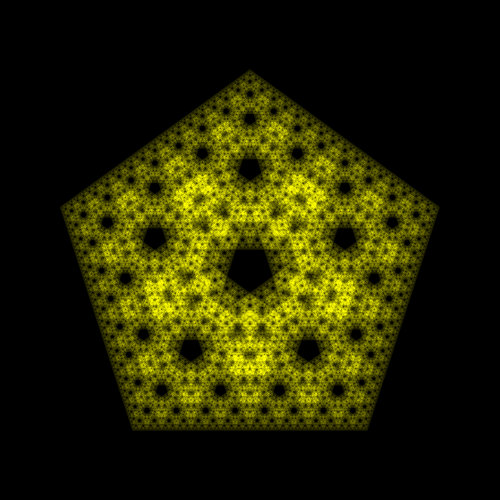
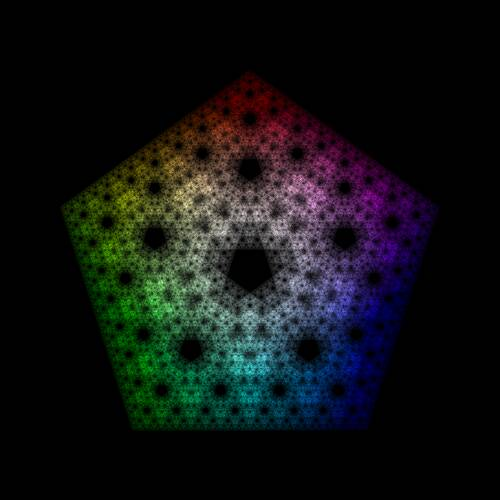
Updated chaos game coloring

diff --git a/writing/caligo/chapters/10.html b/writing/caligo/chapters/10.html
@@ -72,7 +72,7 @@
 
 		<div data-aos="fade-up">
 			<p class="body-text">
-				Was she ever. Bruce was taking the three of them ice skating at the rink just a few blocks away. Amelia was bringing three of her best friends, neighbors that she&#x2019;d grown up with like grape vines. Nate was taking along some of his too, and though Lucas didn&#x2019;t have many friends to speak of, he was as excited as the rest.
+				Was she ever. Bruce was taking the three of them ice skating at the rink just a few blocks away. Amelia was bringing three of her best friends, neighbors that she&#x2019;d grown up with like grapevines. Nate was taking along some of his too, and though Lucas didn&#x2019;t have many friends to speak of, he was as excited as the rest.
 			</p>
 		</div>
 
@@ -618,7 +618,7 @@
 
 		<div data-aos="fade-up">
 			<p class="body-text">
-				Except it wasn&#x2019;t quite that easy, because from the corner of her eye, Amelia saw the other man raising his pistol. She ducked reflexively, her heart hammering, and purple fire flew over her head as she all but lost her grip of the first man.
+				Except it wasn&#x2019;t quite that easy, because from the corner of her eye, Amelia saw the other man raising his pistol. She ducked reflexively, her heart hammering, and purple fire flew over her head as she all but lost her grip on the first man.
 			</p>
 		</div>
 
@@ -792,7 +792,7 @@
 
 		<div data-aos="fade-up">
 			<p class="body-text">
-				One of the balaclavaed women had grabbed an officer from behind, keeping her in a choke-hold before the the other woman delivered a punch to her temple. Ben&#x2019;s stomach sank &mdash; the rebels were winning.
+				One of the balaclavaed women had grabbed an officer from behind, keeping her in a choke-hold before the other woman delivered a punch to her temple. Ben&#x2019;s stomach sank &mdash; the rebels were winning.
 			</p>
 		</div>
 
@@ -1192,7 +1192,7 @@
 
 		<div data-aos="fade-up">
 			<p class="body-text">
-				Ben had already rid himself of everything he&#x2019;d eaten in the past day and a half when the door opened, and one of the housekeepers entered. He looked similarly green in the face, but he brought with him a handful of bottles and a strange looking device that Ben quickly learned was a massive diffuser. He watched, still nauseated to the point of delirium, as a bottle was loaded in and the smell of oranges filled the room. It wasn&#x2019;t enough to drown out the putrid stench that seemed to coat everything, but rotting flesh with oranges was decidedly better than rotting flesh, and he didn&#x2019;t complain.
+				Ben had already rid himself of everything he&#x2019;d eaten in the past day and a half when the door opened, and one of the housekeepers entered. He looked similarly green in the face, but he brought with him a handful of bottles and a strange-looking device that Ben quickly learned was a massive diffuser. He watched, still nauseated to the point of delirium, as a bottle was loaded in and the smell of oranges filled the room. It wasn&#x2019;t enough to drown out the putrid stench that seemed to coat everything, but rotting flesh with oranges was decidedly better than rotting flesh, and he didn&#x2019;t complain.
 			</p>
 		</div>
 
@@ -1262,7 +1262,7 @@
 
 		<div data-aos="fade-up">
 			<p class="body-text">
-				When she closed the trapdoor above her, the blackness surrounded her completely, filling her eyes like ink. Amelia took step after tentative step, descending one foot at a time. The stairs twisted and turned repeatedly, and in total, she counted five floors that she went down. The farther she went, she more rocks littered the steps, and she nearly tripped several times. Finally, after nearly a quarter hour of careful movement, Amelia realized that she could see, if only just. A dim yellow light filled the space, and she saw with a start that the walls to either side were carved out of rock. Up ahead, a cave-in seemed to block the way down, but the light was coming from a small hole in the bottom, barely large enough to squeeze through. So squeeze she did, emerging on the other side to find... a door. It was made of steel, not unlike the far larger one that led out of the dome, and above it was a tiny camera. That surprised her more than the door &mdash; cameras were expensive.
+				When she closed the trapdoor above her, the blackness surrounded her completely, filling her eyes like ink. Amelia took step after tentative step, descending one foot at a time. The stairs twisted and turned repeatedly, and in total, she counted five floors that she went down. The farther she went, she more rocks littered the steps, and she nearly tripped several times. Finally, after nearly a quarter-hour of careful movement, Amelia realized that she could see, if only just. A dim yellow light filled the space, and she saw with a start that the walls to either side were carved out of rock. Up ahead, a cave-in seemed to block the way down, but the light was coming from a small hole in the bottom, barely large enough to squeeze through. So squeeze she did, emerging on the other side to find... a door. It was made of steel, not unlike the far larger one that led out of the dome, and above it was a tiny camera. That surprised her more than the door &mdash; cameras were expensive.
 			</p>
 		</div>
 

diff --git a/writing/caligo/chapters/19.html b/writing/caligo/chapters/19.html
@@ -190,7 +190,7 @@
 
 		<div data-aos="fade-up">
 			<p class="body-text">
-				Once she was in, Amelia walked down the wide, low-ceilinged, downward-sloping hallway that ran a quarter-mile down to the the stage where Vogel had given her speech. The floor was the same lush grass that made her want to take off her shoes, the trees the same incubated diversity, ready to be spread to the hundreds of parks and open spaces that Vogel promised. The same starry ceiling lights, but fewer of them lit.
+				Once she was in, Amelia walked down the wide, low-ceilinged, downward-sloping hallway that ran a quarter-mile down to the stage where Vogel had given her speech. The floor was the same lush grass that made her want to take off her shoes, the trees the same incubated diversity, ready to be spread to the hundreds of parks and open spaces that Vogel promised. The same starry ceiling lights, but fewer of them lit.
 			</p>
 		</div>
 
@@ -260,7 +260,7 @@
 
 		<div data-aos="fade-up">
 			<p class="body-text">
-				She looked them over and nodded. &#x201C;Alright. You get in there, you give them your name and ID, and they ask how long you think you&#x2019;ll be gone. That&#x2019;s it. Don&#x2019;t let them interrogate you. Don&#x2019;t act skittish. If you have nothing to hide, you won&#x2019;t let them walk all over you. Got it?&#x201D; Three nods prompted her to continue. &#x201C;Good. Fifteen minute increments. Now let&#x2019;s get out of here.&#x201D;
+				She looked them over and nodded. &#x201C;Alright. You get in there, you give them your name and ID, and they ask how long you think you&#x2019;ll be gone. That&#x2019;s it. Don&#x2019;t let them interrogate you. Don&#x2019;t act skittish. If you have nothing to hide, you won&#x2019;t let them walk all over you. Got it?&#x201D; Three nods prompted her to continue. &#x201C;Good. Fifteen-minute increments. Now let&#x2019;s get out of here.&#x201D;
 			</p>
 		</div>
 
@@ -484,7 +484,7 @@
 
 		<div data-aos="fade-up">
 			<p class="body-text">
-				Inside this gate was a slightly larger room &mdash; square instead of rectangular, and maybe ten feet to a side. There was a third door at the opposite end, and the whole room was ringed with a single low bench, like some kind of twisted sauna. With growing dread, Amelia knew it was time for all the clothes she&#x2019;d bought. She took a seat and unzipped her backpack, removing layer after layer. Over a t-shirt and jeans, she put on two wool sweaters, a mackinaw, a beanie, two pairs of synthetic wool pants, enormous snow boots that were a size-and-a-half too big but had been on clearance, and over it all, an honest-to-god parka. It had taken nearly all of what she had in the jug, but she really just hoped she&#x2019;d spent enough. Halfway through, she was already starting to sweat, and by the end, she wondered for a moment if it was a little overkill. But as the parka went on, that same piercing hiss sounded, and the air in the room began to move, rushing downward. Amelia knelt down to see vents below the benches, and as she stood back up &mdash; made much harder by the added bulk &mdash; she felt the air temperature begin to drop. And drop. And drop. And plummet. It showed no signs of stopping, plunging from to cold to sharp to painful to alarming to dangerous. Finally, after what had to be a minute but felt like ten, the hiss stopped, and the temperature with it.
+				Inside this gate was a slightly larger room &mdash; square instead of rectangular, and maybe ten feet to a side. There was a third door at the opposite end, and the whole room was ringed with a single low bench, like some kind of twisted sauna. With growing dread, Amelia knew it was time for all the clothes she&#x2019;d bought. She took a seat and unzipped her backpack, removing layer after layer. Over a t-shirt and jeans, she put on two wool sweaters, a mackinaw, a beanie, two pairs of synthetic wool pants, enormous snow boots that were a size-and-a-half too big but had been on clearance, and over it all, an honest-to-god parka. It had taken nearly all of what she had in the jug, but she really just hoped she&#x2019;d spent enough. Halfway through, she was already starting to sweat, and by the end, she wondered for a moment if it was a little overkill. But as the parka went on, that same piercing hiss sounded, and the air in the room began to move, rushing downward. Amelia knelt down to see vents below the benches, and as she stood back up &mdash; made much harder by the added bulk &mdash; she felt the air temperature begin to drop. And drop. And drop. And plummet. It showed no signs of stopping, plunging from cold to sharp to painful to alarming to dangerous. Finally, after what had to be a minute but felt like ten, the hiss stopped, and the temperature with it.
 			</p>
 		</div>
 

diff --git a/writing/caligo/chapters/3.html b/writing/caligo/chapters/3.html
@@ -136,7 +136,7 @@
 
 		<div data-aos="fade-up">
 			<p class="body-text">
-				She passed an thin old man in the middle of the alley, hobbling with a staff, but it was otherwise empty. She was almost to the end, where it opened onto a courtyard of some sort, when she heard enraged shouting from the other end. Amelia threw a glance back... and stopped. The baker was lying face-down on the cold alley floor, hurling insults. Keeping him there was the old man, kneeling on one of her follower&#x2019;s hands and bending the other down to his wrist. It had to be painful &mdash; the baker&#x2019;s face was red and he was squirming about in a desperate attempt to get free.
+				She passed a thin old man in the middle of the alley, hobbling with a staff, but it was otherwise empty. She was almost to the end, where it opened onto a courtyard of some sort, when she heard enraged shouting from the other end. Amelia threw a glance back... and stopped. The baker was lying face-down on the cold alley floor, hurling insults. Keeping him there was the old man, kneeling on one of her follower&#x2019;s hands and bending the other down to his wrist. It had to be painful &mdash; the baker&#x2019;s face was red and he was squirming about in a desperate attempt to get free.
 			</p>
 		</div>
 
@@ -200,7 +200,7 @@
 
 		<div data-aos="fade-up">
 			<p class="body-text">
-				The baker made his first quick movement in more than a minute, jumping backwards and shaking his head. He stumbled over his words and then his feet, fleeing from the alley.
+				The baker made his first quick movement in more than a minute, jumping backward and shaking his head. He stumbled over his words and then his feet, fleeing from the alley.
 			</p>
 		</div>
 
@@ -256,7 +256,7 @@
 
 		<div data-aos="fade-up">
 			<p class="body-text">
-				&#x201C;And here I thought being a hero was enough to keep you fed,&#x201D; Charlie muttered, still grinning. He led her through the alley, and they emerged in the small courtyard Amelia had glimpsed, gravel crunching beneath her feet. There was a dry fountain in the middle, and four simple benches surrounding it, set close together. All around, buildings reached for the dome, none of them fewer than five stories. The courtyard was barely forty feet across, and it felt smaller &mdash; Amelia couldn&#x2019;t see the skyscrapers in the city&#x2019;s center, and all the neon-like sounds without had dropped to a soft florescent flicker, almost as quiet as the inside of her apartment.
+				&#x201C;And here I thought being a hero was enough to keep you fed,&#x201D; Charlie muttered, still grinning. He led her through the alley, and they emerged in the small courtyard Amelia had glimpsed, gravel crunching beneath her feet. There was a dry fountain in the middle, and four simple benches surrounding it, set close together. All around, buildings reached for the dome, none of them fewer than five stories. The courtyard was barely forty feet across, and it felt smaller &mdash; Amelia couldn&#x2019;t see the skyscrapers in the city&#x2019;s center, and all the neon-like sounds without had dropped to a soft fluorescent flicker, almost as quiet as the inside of her apartment.
 			</p>
 		</div>
 
@@ -400,7 +400,7 @@
 
 		<div data-aos="fade-up">
 			<p class="body-text">
-				To her surprise, he seemed to actually consider the notion, scratching his white beard in thought. After an long moment, though, he shook his head. &#x201C;I don&#x2019;t think so. I&#x2019;ve got too much to do, and I can&#x2019;t afford to spend the time.&#x201D; His tone was free of sarcasm, and after a moment, he added, &#x201C;I&#x2019;m sorry. But a man&#x2019;s gotta eat.&#x201D;
+				To her surprise, he seemed to actually consider the notion, scratching his white beard in thought. After a long moment, though, he shook his head. &#x201C;I don&#x2019;t think so. I&#x2019;ve got too much to do, and I can&#x2019;t afford to spend the time.&#x201D; His tone was free of sarcasm, and after a moment, he added, &#x201C;I&#x2019;m sorry. But a man&#x2019;s gotta eat.&#x201D;
 			</p>
 		</div>
 

diff --git a/applets/the-chaos-game/scripts/the-chaos-game.min.js b/applets/the-chaos-game/scripts/the-chaos-game.min.js
@@ -1,1 +1,1 @@
-!function(){"use strict";let e=null,t=document.querySelector("#output-canvas").getContext("2d",{alpha:!1}),n=null,r=[];document.querySelector("#generate-button").addEventListener("click",o);let a=document.querySelectorAll("#grid-size-input, #num-vertices-input");for(let e=0;e<a.length;e++)a[e].addEventListener("keydown",function(e){13===e.keyCode&&o()});function o(){let a=parseInt(document.querySelector("#num-vertices-input").value||3);e=parseInt(document.querySelector("#grid-size-input").value||1e3),document.querySelector("#output-canvas").setAttribute("width",e),document.querySelector("#output-canvas").setAttribute("height",e),t.fillStyle="rgb(0, 0, 0)",t.fillRect(0,0,e,e);try{n.terminate()}catch(e){}n=DEBUG?new Worker("/applets/the-chaos-game/scripts/worker.js"):new Worker("/applets/the-chaos-game/scripts/worker.min.js"),temporary_web_workers.push(n),n.onmessage=function(n){r=n.data[0];let a=t.getImageData(0,0,e,e),o=a.data;for(let t=0;t<e;t++)for(let n=0;n<e;n++){let a=4*t*e+4*n;o[a]=r[t][n],o[a+1]=r[t][n],o[a+2]=0,o[a+3]=255}t.putImageData(a,0,0)},n.postMessage([a,e])}document.querySelector("#download-button").addEventListener("click",function(){let e=document.createElement("a");e.download="the-chaos-game.png",e.href=document.querySelector("#output-canvas").toDataURL(),e.click(),e.remove()}),"Chrome"!==browser_name&&"Opera"!==browser_name||function(){let e=document.querySelector("main").children;(e=e[e.length-1].children)[e.length-1].insertAdjacentHTML("afterend",'\n\t\t\t<div data-aos="fade-up" style="margin-top: 10vh">\n\t\t\t\t<p class="body-text">\n\t\t\t\t\tYour browser treats canvases in a way that may make this applet stutter excessively. If this happens, try temporarily turning off hardware acceleration in the browser&#x2019;s settings.\n\t\t\t\t</p>\n\t\t\t</div>\n\t\t'),aos_resize()}(),applet_canvases_to_resize=[document.querySelector("#output-canvas")],applet_canvas_true_fullscreen=!1,set_up_canvas_resizer()}();
+!function(){"use strict";let e=null,t=document.querySelector("#output-canvas").getContext("2d",{alpha:!1}),n=null,r=[];document.querySelector("#generate-button").addEventListener("click",o);let a=document.querySelectorAll("#grid-size-input, #num-vertices-input");for(let e=0;e<a.length;e++)a[e].addEventListener("keydown",function(e){13===e.keyCode&&o()});function o(){let a=parseInt(document.querySelector("#num-vertices-input").value||3);e=parseInt(document.querySelector("#grid-size-input").value||1e3),document.querySelector("#output-canvas").setAttribute("width",e),document.querySelector("#output-canvas").setAttribute("height",e),t.fillStyle="rgb(0, 0, 0)",t.fillRect(0,0,e,e);try{n.terminate()}catch(e){}n=DEBUG?new Worker("/applets/the-chaos-game/scripts/worker.js"):new Worker("/applets/the-chaos-game/scripts/worker.min.js"),temporary_web_workers.push(n),n.onmessage=function(n){r=n.data[0];let a=t.getImageData(0,0,e,e),o=a.data;for(let t=0;t<e;t++)for(let n=0;n<e;n++){let a=4*t*e+4*n;o[a]=r[t][n][0],o[a+1]=r[t][n][1],o[a+2]=r[t][n][2],o[a+3]=255}t.putImageData(a,0,0)},n.postMessage([a,e])}document.querySelector("#download-button").addEventListener("click",function(){let e=document.createElement("a");e.download="the-chaos-game.png",e.href=document.querySelector("#output-canvas").toDataURL(),e.click(),e.remove()}),"Chrome"!==browser_name&&"Opera"!==browser_name||function(){let e=document.querySelector("main").children;(e=e[e.length-1].children)[e.length-1].insertAdjacentHTML("afterend",'\n\t\t\t<div data-aos="fade-up" style="margin-top: 10vh">\n\t\t\t\t<p class="body-text">\n\t\t\t\t\tYour browser treats canvases in a way that may make this applet stutter excessively. If this happens, try temporarily turning off hardware acceleration in the browser&#x2019;s settings.\n\t\t\t\t</p>\n\t\t\t</div>\n\t\t'),aos_resize()}(),applet_canvases_to_resize=[document.querySelector("#output-canvas")],applet_canvas_true_fullscreen=!1,set_up_canvas_resizer()}();

diff --git a/writing/caligo/chapters/2.html b/writing/caligo/chapters/2.html
@@ -64,7 +64,7 @@
 
 		<div data-aos="fade-up">
 			<p class="body-text">
-				He wasn&#x2019;t really. It took him half an hour to make himself presentable, which required slicked hair, clean teeth, a dress shirt, dress pants, dress shoes, and everything short of a dress itself. When he gave himself one last look, he was awake enough to notice the double chin, one of the those things that he couldn&#x2019;t make presentable. A face like a blown-up mouse balloon, a book glued to it more often than not, and an awkwardness that followed him like some kind of stench. It was a list without many redeeming qualities he could see.
+				He wasn&#x2019;t really. It took him half an hour to make himself presentable, which required slicked hair, clean teeth, a dress shirt, dress pants, dress shoes, and everything short of a dress itself. When he gave himself one last look, he was awake enough to notice the double chin, one of those things that he couldn&#x2019;t make presentable. A face like a blown-up mouse balloon, a book glued to it more often than not, and an awkwardness that followed him like some kind of stench. It was a list without many redeeming qualities he could see.
 			</p>
 		</div>
 
@@ -72,7 +72,7 @@
 
 		<div data-aos="fade-up">
 			<p class="body-text">
-				Ben grabbed a pen and notebook from a desk and stepped out into the florescent hallway. The carpet changed abruptly from plush white to dull red, and the walls could have had a different style too, for all he could see of them &mdash; most of the space was taken up by art of all kinds. Famous works, scavenged from out beyond the dome, and lesser ones, too &mdash; including a portrait of Ben from when he was eight, nestled in among grand landscapes. If it hadn&#x2019;t been so easy to miss, it would probably already be gone.
+				Ben grabbed a pen and notebook from a desk and stepped out into the fluorescent hallway. The carpet changed abruptly from plush white to dull red, and the walls could have had a different style too, for all he could see of them &mdash; most of the space was taken up by art of all kinds. Famous works, scavenged from out beyond the dome, and lesser ones, too &mdash; including a portrait of Ben from when he was eight, nestled in among grand landscapes. If it hadn&#x2019;t been so easy to miss, it would probably already be gone.
 			</p>
 		</div>
 
@@ -216,7 +216,7 @@
 
 		<div data-aos="fade-up">
 			<p class="body-text">
-				Ben still remembered clearly the day his father had found out. His cold rage only showed itself though the small cracks in his elegance, but even then, Ben had known how to spot it. He&#x2019;d spent that day in the kitchens, ordering a series of pastries and hoping Richard wouldn&#x2019;t find him.
+				Ben still remembered clearly the day his father had found out. His cold rage only showed itself through the small cracks in his elegance, but even then, Ben had known how to spot it. He&#x2019;d spent that day in the kitchens, ordering a series of pastries and hoping Richard wouldn&#x2019;t find him.
 			</p>
 		</div>
 
@@ -518,7 +518,7 @@
 
 		<div data-aos="fade-up">
 			<p class="body-text">
-				It was almost as good as being down there on the ground. He watched someone wind their way through the crowd, passing by a massive grocery, a hole-in-the wall bookstore, and a slightly larger place that seemed to sell weapons.
+				It was almost as good as being down there on the ground. He watched someone wind their way through the crowd, passing by a massive grocery, a hole-in-the-wall bookstore, and a slightly larger place that seemed to sell weapons.
 			</p>
 		</div>
 

diff --git a/writing/caligo/chapters/22.html b/writing/caligo/chapters/22.html
@@ -72,7 +72,7 @@
 
 		<div data-aos="fade-up">
 			<p class="body-text">
-				Melissa gestured to the aisle that lead toward the stairs. &#x201C;You three clear those out, and I&#x2019;ll hold these off. On my call.&#x201D;
+				Melissa gestured to the aisle that led toward the stairs. &#x201C;You three clear those out, and I&#x2019;ll hold these off. On my call.&#x201D;
 			</p>
 		</div>
 
@@ -576,7 +576,7 @@
 
 		<div data-aos="fade-up">
 			<p class="body-text">
-				They two of them began rousing their comrades, but Amelia could feel the heat rushing up, now. Melissa staggered a little, the floor weakening under her, and got their attention. &#x201C;I need you all to listen carefully. Step where I step. Don&#x2019;t put all your weight on anything. Use common sense. Got it?&#x201D; She set off carefully but quickly across the floor, past the group of waking outliers, some coming around quickly, others lethargically or not at all.
+				The two of them began rousing their comrades, but Amelia could feel the heat rushing up, now. Melissa staggered a little, the floor weakening under her, and got their attention. &#x201C;I need you all to listen carefully. Step where I step. Don&#x2019;t put all your weight on anything. Use common sense. Got it?&#x201D; She set off carefully but quickly across the floor, past the group of waking outliers, some coming around quickly, others lethargically or not at all.
 			</p>
 		</div>
 
@@ -1070,7 +1070,7 @@
 
 		<div data-aos="fade-up">
 			<p class="body-text">
-				Neither one said anything for a while, watching Margaret ahead of them. She groaned occasionally, slipping in and out of consciousness, and the other outliers kept glancing back at her nervously. Amelia realized after a little while that were probably less worried about her leg than what the noise might attract. The more Amelia looked around, down the empty, plague-black streets, the more she began to think they were right to worry.
+				Neither one said anything for a while, watching Margaret ahead of them. She groaned occasionally, slipping in and out of consciousness, and the other outliers kept glancing back at her nervously. Amelia realized after a little while that they were probably less worried about her leg than what the noise might attract. The more Amelia looked around, down the empty, plague-black streets, the more she began to think they were right to worry.
 			</p>
 		</div>
 
@@ -1102,7 +1102,7 @@
 
 		<div data-aos="fade-up">
 			<p class="body-text">
-				Melissa looked toward her, maybe about to say something, but then just she shook her head. Amelia watched her for a few moments, waiting for answer, until she eventually gave up &mdash; she&#x2019;d annoyed Melissa enough for one day, even if this didn&#x2019;t sit very well with her.
+				Melissa looked toward her, maybe about to say something, but then just she shook her head. Amelia watched her for a few moments, waiting for an answer, until she eventually gave up &mdash; she&#x2019;d annoyed Melissa enough for one day, even if this didn&#x2019;t sit very well with her.
 			</p>
 		</div>
 
@@ -1370,7 +1370,7 @@
 
 		<div data-aos="fade-up">
 			<p class="body-text">
-				Kate started a retort, but Melissa cut her off. &#x201C;We&#x2019;ll be on our way in a moment,&#x201D; she said, only a hint of a tiredness in her voice.
+				Kate started a retort, but Melissa cut her off. &#x201C;We&#x2019;ll be on our way in a moment,&#x201D; she said, only a hint of tiredness in her voice.
 			</p>
 		</div>
 

diff --git a/applets/the-chaos-game/scripts/worker.min.js b/applets/the-chaos-game/scripts/worker.min.js
@@ -1,1 +1,1 @@
-"use strict";onmessage=async function(e){num_vertices=e.data[0],grid_size=e.data[1],await draw_chaos_game()};let num_vertices=null,grid_size=null,image=[],vertices=[],center_row=null,center_col=null,current_row=null,current_col=null,num_pixels_at_max=0;function draw_chaos_game(){return new Promise(function(e,r){image=[];for(let e=0;e<grid_size;e++){image.push([]);for(let r=0;r<grid_size;r++)image[e].push(0)}let t=2*Math.floor(num_vertices/2)*Math.PI/num_vertices,i=grid_size/2-grid_size/2.5,c=grid_size/2-grid_size/2.5*Math.cos(t),_=i+(grid_size-c);center_row=Math.floor(_/2+grid_size/2.5),center_col=Math.floor(grid_size/2),current_row=center_row,current_col=center_col,vertices=[];for(let e=0;e<num_vertices;e++){let r=e/num_vertices*2*Math.PI,t=Math.floor(-Math.cos(r)*grid_size/2.5+center_row),i=Math.floor(Math.sin(r)*grid_size/2.5+center_col);vertices.push([t,i])}let o=0;for(;;){o%(100*grid_size)==0&&postMessage([image]);let e=Math.floor(Math.random()*num_vertices);if(current_row=Math.floor((current_row+vertices[e][0])/2),current_col=Math.floor((current_col+vertices[e][1])/2),image[current_row][current_col]++,255===image[current_row][current_col]){if(++num_pixels_at_max/(grid_size*grid_size)>.004)break}else image[current_row][current_col]>255&&(image[current_row][current_col]=255);o++}postMessage([image]),e()})}
+"use strict";onmessage=async function(e){num_vertices=e.data[0],grid_size=e.data[1],await draw_chaos_game()};let num_vertices=null,grid_size=null,image=[],vertices=[],center_row=null,center_col=null,current_row=null,current_col=null,num_pixels_at_max=0;function draw_chaos_game(){return new Promise(function(e,r){image=[];for(let e=0;e<grid_size;e++){image.push([]);for(let r=0;r<grid_size;r++)image[e].push([0,0,0])}let t=2*Math.floor(num_vertices/2)*Math.PI/num_vertices,i=grid_size/2-grid_size/2.5,_=grid_size/2-grid_size/2.5*Math.cos(t),c=i+(grid_size-_);center_row=Math.floor(c/2+grid_size/2.5),center_col=Math.floor(grid_size/2),current_row=center_row,current_col=center_col,vertices=[];for(let e=0;e<num_vertices;e++){let r=e/num_vertices*2*Math.PI,t=Math.floor(-Math.cos(r)*grid_size/2.5+center_row),i=Math.floor(Math.sin(r)*grid_size/2.5+center_col);vertices.push([t,i])}let o=0;for(;;){o%(100*grid_size)==0&&postMessage([image]);let r=Math.floor(Math.random()*num_vertices);current_row=Math.floor((current_row+vertices[r][0])/2),current_col=Math.floor((current_col+vertices[r][1])/2);let t=HSVtoRGB((Math.atan2(current_col-grid_size/2,current_row-grid_size/2)+Math.PI)/(2*Math.PI),((current_row-grid_size/2)*(current_row-grid_size/2)+(current_col-grid_size/2)*(current_col-grid_size/2))/(grid_size*grid_size/13),1);t[0]/=255,t[1]/=255,t[2]/=255;for(let r=0;r<3;r++)if(image[current_row][current_col][r]+=8*t[r],image[current_row][current_col][r]>=255&&(num_pixels_at_max++,image[current_row][current_col][r]=255,num_pixels_at_max/(grid_size*grid_size)>.004))return postMessage([image]),void e();o++}postMessage([image]),e()})}function HSVtoRGB(e,r,t){let i,_,c,o,s,a,n,u;switch(a=t*(1-r),n=t*(1-(s=6*e-(o=Math.floor(6*e)))*r),u=t*(1-(1-s)*r),o%6){case 0:i=t,_=u,c=a;break;case 1:i=n,_=t,c=a;break;case 2:i=a,_=t,c=u;break;case 3:i=a,_=n,c=t;break;case 4:i=u,_=a,c=t;break;case 5:i=t,_=a,c=n}return[Math.round(255*i),Math.round(255*_),Math.round(255*c)]}

diff --git a/writing/caligo/chapters/7.html b/writing/caligo/chapters/7.html
@@ -264,7 +264,7 @@
 
 		<div data-aos="fade-up">
 			<p class="body-text">
-				The glass was almost gone, now, and the hole was big enough for Amelia to fit though. She gave the melted edge a wipe with a small cloth that immediately began to corrode before tossing it away and climbing through, balaclavaed head first.
+				The glass was almost gone, now, and the hole was big enough for Amelia to fit through. She gave the melted edge a wipe with a small cloth that immediately began to corrode before tossing it away and climbing through, balaclavaed head first.
 			</p>
 		</div>
 
@@ -360,7 +360,7 @@
 
 		<div data-aos="fade-up">
 			<p class="body-text">
-				Lucas had never been one for half measures. He handled delicate emotions the way a blacksmith handled white-hot metal &mdash; always at arm&#x2019;s length, always with trepidation. When he realized that his tiny government salary wouldn&#x2019;t be nearly enough to feed all three of them and pay the rent, he&#x2019;d taken out a loan from an individual named Kroffman and instructed Amelia to find a job. How a ten-year old was supposed to do that, exactly, was unclear, but Lucas had inherited a set of ethics from his father &mdash; an awkward and heavy heirloom &mdash; and from where he stood, there was no other option.
+				Lucas had never been one for half measures. He handled delicate emotions the way a blacksmith handled white-hot metal &mdash; always at arm&#x2019;s length, always with trepidation. When he realized that his tiny government salary wouldn&#x2019;t be nearly enough to feed all three of them and pay the rent, he&#x2019;d taken out a loan from an individual named Kroffman and instructed Amelia to find a job. How a ten-year-old was supposed to do that, exactly, was unclear, but Lucas had inherited a set of ethics from his father &mdash; an awkward and heavy heirloom &mdash; and from where he stood, there was no other option.
 			</p>
 		</div>
 
@@ -448,7 +448,7 @@
 
 		<div data-aos="fade-up">
 			<p class="body-text">
-				There was almost nothing in there. A hundred thousand, maybe less. Amelia stared, bewildered and on edge, and had no choice bu to leave. She took the cash and bolted through the open door.
+				There was almost nothing in there. A hundred thousand, maybe less. Amelia stared, bewildered and on edge, and had no choice but to leave. She took the cash and bolted through the open door.
 			</p>
 		</div>
 

diff --git a/applets/the-chaos-game/scripts/worker.js b/applets/the-chaos-game/scripts/worker.js
@@ -41,7 +41,7 @@ function draw_chaos_game()
 			
 			for (let j = 0; j < grid_size; j++)
 			{
-				image[i].push(0);
+				image[i].push([0, 0, 0]);
 			}
 		}
 		
@@ -93,21 +93,39 @@ function draw_chaos_game()
 			current_row = Math.floor((current_row + vertices[attractor_vertex][0]) / 2);
 			current_col = Math.floor((current_col + vertices[attractor_vertex][1]) / 2);
 			
-			image[current_row][current_col]++;
 			
-			if (image[current_row][current_col] === 255)
+			
+			let new_hue = (Math.atan2(current_col - grid_size / 2, current_row - grid_size / 2) + Math.PI) / (2 * Math.PI);
+			
+			let new_saturation = ((current_row - grid_size / 2) * (current_row - grid_size / 2) + (current_col - grid_size / 2) * (current_col - grid_size / 2)) / (grid_size * grid_size / 13);
+			
+			let current_color = HSVtoRGB(new_hue, new_saturation, 1);
+			
+			current_color[0] /= 255;
+			current_color[1] /= 255;
+			current_color[2] /= 255;
+			
+			
+			
+			for (let i = 0; i < 3; i++)
 			{
-				num_pixels_at_max++;
+				image[current_row][current_col][i] += 8 * current_color[i];
 				
-				if (num_pixels_at_max / (grid_size * grid_size) > .004)
+				if (image[current_row][current_col][i] >= 255)
 				{
-					break;
+					num_pixels_at_max++;
+					
+					image[current_row][current_col][i] = 255;
+					
+					if (num_pixels_at_max / (grid_size * grid_size) > .004)
+					{
+						postMessage([image]);
+						
+						resolve();
+						
+						return;
+					}
 				}
-			}
-			
-			else if (image[current_row][current_col] > 255)
-			{
-				image[current_row][current_col] = 255;
 			}
 			
 			
@@ -123,4 +141,29 @@ function draw_chaos_game()
 		
 		resolve();
 	});
+}
+
+
+
+function HSVtoRGB(h, s, v)
+{
+	let r, g, b, i, f, p, q, t;
+	
+	i = Math.floor(h * 6);
+	f = h * 6 - i;
+	p = v * (1 - s);
+	q = v * (1 - f * s);
+	t = v * (1 - (1 - f) * s);
+	
+	switch (i % 6)
+	{
+		case 0: r = v, g = t, b = p; break;
+		case 1: r = q, g = v, b = p; break;
+		case 2: r = p, g = v, b = t; break;
+		case 3: r = p, g = q, b = v; break;
+		case 4: r = t, g = p, b = v; break;
+		case 5: r = v, g = p, b = q; break;
+	}
+    
+	return [Math.round(r * 255), Math.round(g * 255), Math.round(b * 255)];
 }

diff --git a/writing/caligo/chapters/4.html b/writing/caligo/chapters/4.html
@@ -208,7 +208,7 @@
 
 		<div data-aos="fade-up">
 			<p class="body-text">
-				It was ten minutes before he remembered that he hadn&#x2019;t intended to just walk the streets &mdash; he had a wad of bills in his bag, about five hundred thousand in total. It didn&#x2019;t occur to him for another half an hour that someone might try to lift it off him, but he was lucky for that half hour, moving unscathed. By then, he was out of the heart of Los Angeles, and the crowds were thinning, if only slightly. He veered off to the side and ducked into a neon-streaked establishment, advertising burgers and fries at all-you-can-eat prices.
+				It was ten minutes before he remembered that he hadn&#x2019;t intended to just walk the streets &mdash; he had a wad of bills in his bag, about five hundred thousand in total. It didn&#x2019;t occur to him for another half an hour that someone might try to lift it off him, but he was lucky for that half-hour, moving unscathed. By then, he was out of the heart of Los Angeles, and the crowds were thinning, if only slightly. He veered off to the side and ducked into a neon-streaked establishment, advertising burgers and fries at all-you-can-eat prices.
 			</p>
 		</div>
 
@@ -372,7 +372,7 @@
 
 		<div data-aos="fade-up">
 			<p class="body-text">
-				The last five floors were private &mdash; mostly offices, conference rooms, and the occasional service room. The twenty-fourth contained just a few, his room one of them. He made his way down the carpeted corridor, his steps now perfectly silent, and hid the book and pointless bobbles in his wardrobe, beneath his clothes. He had fifteen minutes to spare, and he flopped on his bed, happy to to be out of the heat.
+				The last five floors were private &mdash; mostly offices, conference rooms, and the occasional service room. The twenty-fourth contained just a few, his room one of them. He made his way down the carpeted corridor, his steps now perfectly silent, and hid the book and pointless bobbles in his wardrobe, beneath his clothes. He had fifteen minutes to spare, and he flopped on his bed, happy to be out of the heat.
 			</p>
 		</div>
 

diff --git a/writing/caligo/chapters/20.html b/writing/caligo/chapters/20.html
@@ -64,7 +64,7 @@
 
 		<div data-aos="fade-up">
 			<p class="body-text">
-				He still didn&#x2019;t know if he was really in control, or if Heather had orchestrated him from the beginning. The idea of bring a pawn wasn&#x2019;t a particularly alarming one &mdash; he&#x2019;d grown up as pawn, waiting to cross the battlefield and become &mdash; well, a king was more fitting than a queen, wasn&#x2019;t it? The only real advantage a king had over a pawn was moving backwards.
+				He still didn&#x2019;t know if he was really in control, or if Heather had orchestrated him from the beginning. The idea of being a pawn wasn&#x2019;t a particularly alarming one &mdash; he&#x2019;d grown up as pawn, waiting to cross the battlefield and become &mdash; well, a king was more fitting than a queen, wasn&#x2019;t it? The only real advantage a king had over a pawn was moving backward.
 			</p>
 		</div>
 
@@ -584,7 +584,7 @@
 
 		<div data-aos="fade-up">
 			<p class="body-text">
-				&#x201C;Make haste,&#x201D; Heather breathed behind him. Ben didn&#x2019;t bother to reply, walking quickly down the isle. It ringed the entire floor like the farmland ringed the city, floor-to-ceiling glass windows casting beams of light on the dozens of desks. Every one was pushed up against the glass so that those working could see the yawning city below. Ben wasn&#x2019;t sure why they were there when the only people on the floors had their own offices, but he liked them nonetheless. They reminded him of what he thought a library should look like.
+				&#x201C;Make haste,&#x201D; Heather breathed behind him. Ben didn&#x2019;t bother to reply, walking quickly down the aisle. It ringed the entire floor like the farmland ringed the city, floor-to-ceiling glass windows casting beams of light on the dozens of desks. Every one was pushed up against the glass so that those working could see the yawning city below. Ben wasn&#x2019;t sure why they were there when the only people on the floors had their own offices, but he liked them nonetheless. They reminded him of what he thought a library should look like.
 			</p>
 		</div>
 

diff --git a/writing/caligo/chapters/12.html b/writing/caligo/chapters/12.html
@@ -118,7 +118,7 @@
 
 		<div data-aos="fade-up">
 			<p class="body-text">
-				Ben threw a small wrench into the pipeline, though, hoarding every day&#x2019;s paper for those two weeks. The most interesting detail he found in them was tiny, mentioned barely once and then never again: no one was in the building when it happened<em>. </em>It was a line a few paragraphs into the front page story the day after the explosion. The article had talked mostly about potential suspects and the government&#x2019;s response and the <em>smell</em>, and the lack of direct victims was ignored.
+				Ben threw a small wrench into the pipeline, though, hoarding every day&#x2019;s paper for those two weeks. The most interesting detail he found in them was tiny, mentioned barely once and then never again: no one was in the building when it happened<em>. </em>It was a line a few paragraphs into the front-page story the day after the explosion. The article had talked mostly about potential suspects and the government&#x2019;s response and the <em>smell</em>, and the lack of direct victims was ignored.
 			</p>
 		</div>
 
@@ -1020,7 +1020,7 @@
 
 		<div data-aos="fade-up">
 			<p class="body-text">
-				Ben emerged onto the street a few minutes before noon with no idea what to do. There were bookstores and fast food restaurants, but both still left a bitter taste in his mouth. He tried to think &mdash; what else had he done out here? It seemed ridiculous that he had argued for his freedom only to have nothing to do with it.
+				Ben emerged onto the street a few minutes before noon with no idea what to do. There were bookstores and fast-food restaurants, but both still left a bitter taste in his mouth. He tried to think &mdash; what else had he done out here? It seemed ridiculous that he had argued for his freedom only to have nothing to do with it.
 			</p>
 		</div>
 
